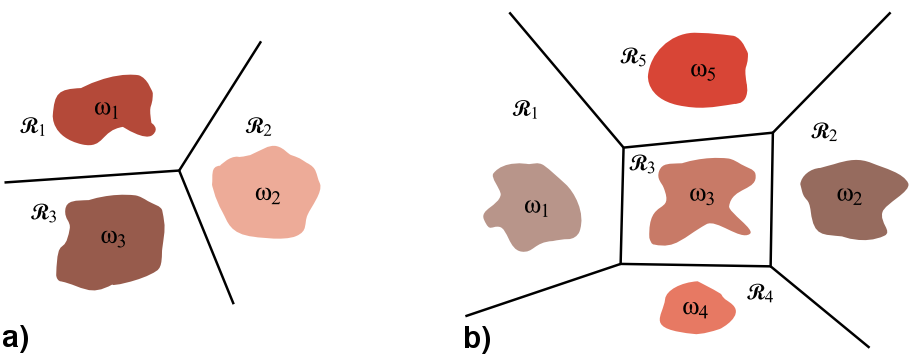
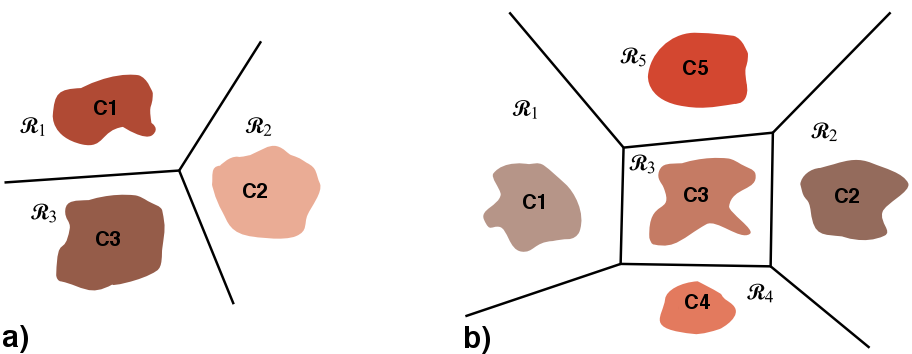
Think LDA and classification is done
new pictures with correct class notation (w -> C) as well as equations

diff --git a/contents/bBackground/lda.tex b/contents/bBackground/lda.tex
@@ -1,9 +1,9 @@
 \section{Classification} \label{sec:BG:classification}
-For a myoelectric prosthesis to be able to distinguish between movements it needs to perform, a control scheme is needed to categorize the movements. The control scheme is trained by being given information about the EMG signal represented as the features extracted from the raw EMG. If the features between each movement are well separated the control scheme is able to recognize each distinct movement. For this purpose classification control schemes are commonly used. A classifier categorizes each movement as a class, and based on the input features it gives one class as output at a time. Using a classifier thus limits the user to only performing movements which have been defined as classes. However, if trained properly a classifier can reach a low error rate for the trained movements \cite{Scheme2013}. A frequently used classification control scheme for myoelectric prosthetic control is the Linear Discriminant Analysis classifier (LDA) \cite{Englehart2003, Scheme2015, Fang2017, Scheme2013}. The advantage of LDA is that whilst having a low computation time it still enables robust control. An assumption about the LDA is that the input needs to be Gaussian distributed, which the EMG probability properties has shown to adhere to \cite{Duda2000, Nazarpour2013}. The following section provides further theoretical information about the LDA classifier.
+For a myoelectric prosthesis to be able to distinguish between movements it needs to perform, a control scheme is needed to categorize the movements. The control scheme is trained by being given information about the EMG signal represented as the features extracted from the raw EMG. If the features between each movement are well separated the control scheme is able to recognize each distinct movement. For this purpose classification control schemes are commonly used. A classifier categorizes each movement as a class, and based on the input features it gives one output for each data window. Using a classifier thus limits the user to only performing movements which have been defined as classes. However, if trained properly a classifier can reach a low error rate for the trained movements \cite{Scheme2013}. A frequently used classification control scheme for myoelectric prosthetic control is the Linear Discriminant Analysis classifier (LDA) \cite{Englehart2003, Scheme2015, Fang2017, Scheme2013}. The advantage of LDA is that whilst having a low computation time it still enables robust control. An assumption about the LDA is that the input needs to be Gaussian distributed, which the EMG probability properties has shown to adhere to \cite{Duda2000, Nazarpour2013}. The following section provides further theoretical information about general linear classifiers and LDA.
 
 
-\subsection{Linear Discriminant Analysis} \label{sub:BG:LDA}
-LDA is a supervised classification method used to separate classes of data by linear decision boundaries. Each decision boundary is a hyperplane from which the shortest distance to each class feature value and class mean is maximized for each class. A decision boundary is defined as a linear combination of the feature values $x$ and is given as \cite{Duda2000}:
+\subsection{Linear Classification} \label{sub:BG:linearClassification}
+A linear classifier is a supervised classification method used to separate classes of data by linear decision boundaries. Each decision boundary is a hyperplane from which the distance to each feature value of a class and the center of the class is maximized. A decision boundary is defined as a linear combination of the feature values $x$ and is given as \cite{Duda2000}:
 
 \begin{equation}
 g(x) = w^tx +w_0
@@ -11,10 +11,10 @@ g(x) = w^tx +w_0
 
 where $w$ is a weight vector deciding the orientation of $g(x)$, and $w_0$ is a bias deciding the position of the hyperplane in relation to the origin. If $w_0 > 0$ the origin is on the positive side of the decision boundary, and if $w_0 < 0$ the origin is on the negative side. In the case of $w_0 = 0$ the decision boundary passes through origin. The distance from origin to the boundary is given as $\frac{w_0}{||w||}$. The position of the decision boundary is necessary to know to when separating features into regions. \cite{Duda2000}
 
-In a two category case the decision rule for deciding classes is to decide class $w_1$ if $g(x) > 0$ and class $w_2$ if $g(x) < 0$. $g(x) = 0$ then defines the decision boundary that separates the features into two decision regions $R_1$ for $w_1$ and $R_2$ for $w_2$. The normal vector $w$ is orthogonal to any vector on the hyperplane, which is used to calculate the distance $r$ from feature values (x) to the decision boundary \cite{Duda2000}:
+In a two category case the decision rule for deciding classes is to decide class $C_1$ if $g(x) > 0$ and class $C_2$ if $g(x) < 0$. $g(x) = 0$ then defines the decision boundary that separates the features into two decision regions $R_1$ for $C_1$ and $R_2$ for $C_2$. The normal vector $v$ is orthogonal to any vector on the hyperplane, which is used to calculate the distance $r$ from feature values (x) to the decision boundary \cite{Duda2000}:
 
 \begin{equation} \label{eq:featureValueDistance}
-r = \frac{g(x)}{||w||}
+r = \frac{g(x)}{||v||}
 \end{equation} 
 
 The distance from origin and boundary to feature value (x) is needed to decide in which region the feature value belongs. \cite{Duda2000} These distances are illustrated in \figref{fig:geolda}.
@@ -23,14 +23,14 @@ The distance from origin and boundary to feature value (x) is needed to decide i
 
 \begin{figure}[H]                 
 	\includegraphics[width=.4\textwidth]{figures/xBackground/geolda}  
-	\caption{A geometric illustration of the linear decision boundary $g(x)$ that separates the feature space into two decision regions $R_1$ and $R_2$. $x$ is the feature value, and $x_p$ is the point on the decision boundary in which $x$ is orthogonal projected on vector $w$. The distances from origin and boundary to feature value $x$ is marked red. \cite{Duda2000}}
+	\caption{A geometric illustration of the linear decision boundary $g(x)$ that separates the feature space into two decision regions $R_1$ and $R_2$. $x$ is the feature value, and $x_p$ is the point on the decision boundary in which $x$ is orthogonal projected on vector $v$. The distances from origin and boundary to feature value $x$ is marked red. \cite{Duda2000}}
 	\label{fig:geolda} 
 \end{figure}
 
 When feature values are to be classified into more than two classes more decision boundaries are needed. This is a multicategory case in which $c$ numbers of boundaries are defined. When defining linear boundaries in this case any number can be chosen, but to minimize ambiguous decision regions the boundaries are defined by \cite{Duda2000}:
 
 \begin{equation} \label{eq:multicase}
-g_{i}(x) = w^tx_{i} +w_{i0} ~~~~~~~~~~~ i = 1,...,c,
+g_{i}(x) = w^{t}_{i}x_{i} +w_{i0} ~~~~~~~~~~~ i = 1,...,c,
 \end{equation}
 
 This equation follows the notation of the two-category case, with the addition of $i$ numbers of boundaries, feature values and biases. This type of classifier is called a linear machine, dividing the feature space into $c$ regions. A liner machine will be adopted as classification method in this project. Regions $R_i$ and $R_j$, that are connected is divided by a boundary hyperplane $H_{ij}$ defined by \cite{Duda2000}:
@@ -50,16 +50,24 @@ Often regions are contiguous and will have a single boundary to separate several
 When the decision boundaries $g_i(w)$ have been calculated as in \eqref{eq:multicase}, the input feature values can be decided upon which class they belong to by calculating the distance to the decision boundary as in \eqref{eq:featureValueDistance}. 
 
 
-%\subsection{Gradient descend/minimum criterion function}
+\subsection{Linear Discriminant Analysis} \label{sub:BG:LDA}
 
+A type of linear classifier is the linear discriminant analysis (LDA). Despite the name LDA is a generative model and not a discriminative model. \cite{Duda2000} 
+%LDA takes the further assumption on the input data, that data for each class is Gaussian distributed. This means that all classes will have the same covariance matrix, where only the class means will vary. 
+When using LDA the same procedures described in the previous section, \secref{sub:BG:linearClassification}, must be completed. This however can result in classes which show a correlation. When applying LDA classes cannot have correlation, since the data must be Gaussian distributed. Thus, when applying LDA a constraint of Gaussian distribution is put on the data. This force the class regions to have no correlation and have the same covariance matrix, where only the class means will vary.
+If class regions do have correlation, the decision boundaries made by a discriminative linear classifier can be quadratic. Thus, when using LDA and forcing the constraint of Gaussian distribution on the data will make the decision boundaries linear. Additionally, with linear boundaries it is possible to calculate the likelihood of a sample value belonging to a certain class. \cite{Fisher1936, Duda2000}
+As described in \chapref{chap:Introduction} the proposed method of this study is to calculate confidence scores to use as a mean of providing user feedback. This will be made possible by implementing LDA as a linear classifier to enable both a classification based control scheme and to be able to calculate confidence scores to use as feedback in user training. 
+
+%used by Scheme et al. \cite{Scheme2013} to calculate the likelihoods as a confidence score. Thus applying LDA as a classifier control scheme in this project will enable both a control scheme based on classification and to calculate the confidence scores of sample values to use as a mean of improving user training. 
 
 \subsection{Classification confidence scores} \label{sub:BG:classificationConfidenceScores}
-An additional reason for using LDA as control scheme is because it enables the calculation of confidence scores for the classes, which will be used in the user training described in \secref{sec:BG:userTraining} to improve the prosthesis control. Based on the classification of feature values by the linear machine, confidence scores for the classes can be evaluated by computing the posterior probability of each class. Calculating the posterior probability is possible by knowing the likelihood $P(x|w_j)$ and the prior probability $P(w)$.
+As described, the additional reason for using LDA as control scheme is because it enables the calculation of confidence scores for the classes, which will be used in the user training, further described in \secref{sec:BG:userTraining} to improve the prosthesis control. The principle of calculating confidence scores for input data is the basis for this project. 
+Based on the classification of feature values by the linear classifier, confidence scores for the classes can be evaluated by computing the posterior probability of each class. Calculating the posterior probability is possible by knowing the likelihood $P(x|C_j)$ and the prior probability $P(C)$.
 %The likelihood is the conditional probability the feature value $x$ can appear in a certain class ($w_j$), while the prior probability $P(x)$, is the probability of a feature value appearing. %is this not always 100% in our case?
 The posterior probability for a class is a value between 0 and 1, and is calculated as follows:
 
 \begin{equation}
-P(w_j|x) = \frac{P(x|w_j)P(w)}{P(x)}
+P(C_j|x) = \frac{P(x|C_j)P(C)}{P(x)}
 \end{equation}
 
-where $w_j$ represents a class and x represents a feature value. The posterior probability is given as the product of the class conditional probability, $P(x|w_j)$ and the prior probability $P(w)$ divided by a normalization term $P(x)$ that guaranties that the posterior probabilities for all classes sums to one. $P(x|w_j)$ is the probability of obtaining a feature value when selecting samples randomly from a class. $P(w)$ is the probability of a sample from a specific class appears in its correct class, before it have actually appeared. Summation of posterior probabilities for all classes will equal 1.
+where $C_j$ represents a class and x represents a feature vector. The posterior probability is given as the product of the class conditional probability, $P(x|C_j)$ and the prior probability $P(C)$ divided by a normalization term $P(x)$ that guaranties that the posterior probabilities for all classes sums to one. $P(x|C_j)$ is the probability of obtaining a feature value when selecting samples randomly from a class. $P(C)$ is the probability of a sample from a specific class appears in its correct class, before it have actually appeared. Summation of posterior probabilities for all classes will equal 1.

diff --git a/contents/zMethods/buildingClassification.tex b/contents/zMethods/buildingClassification.tex
@@ -41,7 +41,9 @@ TM=\begin{bmatrix}
 \end{equation}
 \end{footnotesize}
 
-The classifier was trained by fitting the matrix presented in \eqref{eq:AllMatrix} with labels for each of the movements, making it a supervised learning method. The classifier thereby formed seven classes, one for each of the movements, with discriminative decision boundaries separating them. For calculating the real-time use of classification outcome and confidence scores in user training and performance test as intended, the predict function in MATLAB was used. The function was continuously evaluating each feature value to the different movement classes in the five dimensional feature space. Thus, the feature values were assigned to the movement class they were most likely to belong to based on the training data. The predict function also calculated the probability membership for the feature values to all classes giving an idea of how confident the classifier was on deciding a certain movement class and thereby indicating the correctness of the movement performed. \\ 
+The classifier was trained by fitting the matrix presented in \eqref{eq:AllMatrix} with labels for each of the movements, by using the fitcdiscr function in MATLAB. %The fitcdiscr function computes the mean of data points for each class. The sample covariance is then calculated by subtracting the mean of each class from the observed data of the class and taking the covariance matrix of the result.
+The fitcdiscr function makes a LDA classifier model as described in \secref{sub:BG:LDA}.
+The classifier thereby formed seven classes, one for each of the movements, with linear decision boundaries separating them. For calculating the real-time use of classification outcome and confidence scores in user training and performance test as intended, the predict function in MATLAB was used. The function was continuously evaluating each feature value to the different movement classes in the five dimensional feature space. Thus, the feature values were assigned to the movement class they were most likely to belong to based on the training data. The predict function also calculated the probability membership for the feature values to all classes giving an idea of how confident the classifier was on deciding a certain movement class and thereby indicating the correctness of the movement performed. \\ 
 The classifier was only used to decide upon which movement was performed, thus not used in performing proportional control. For this purpose linear regression models were used. 
 
 
